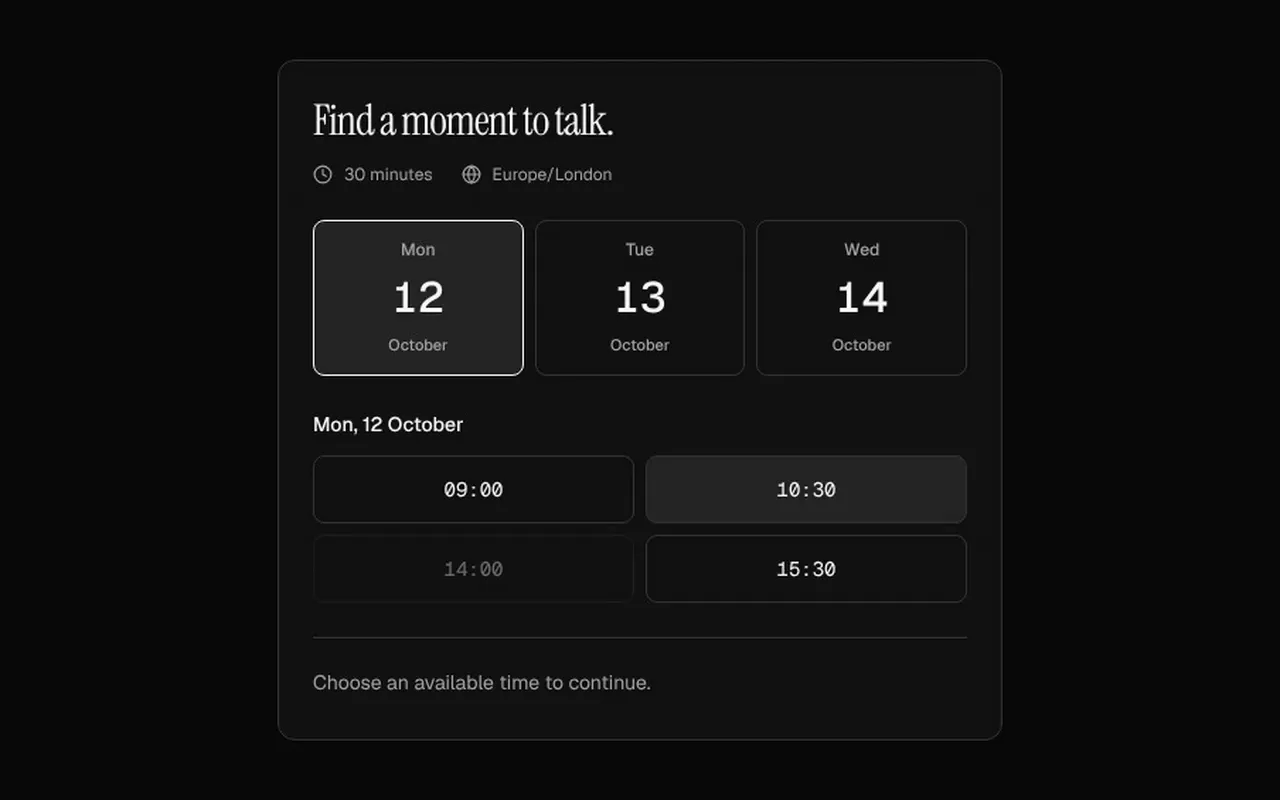
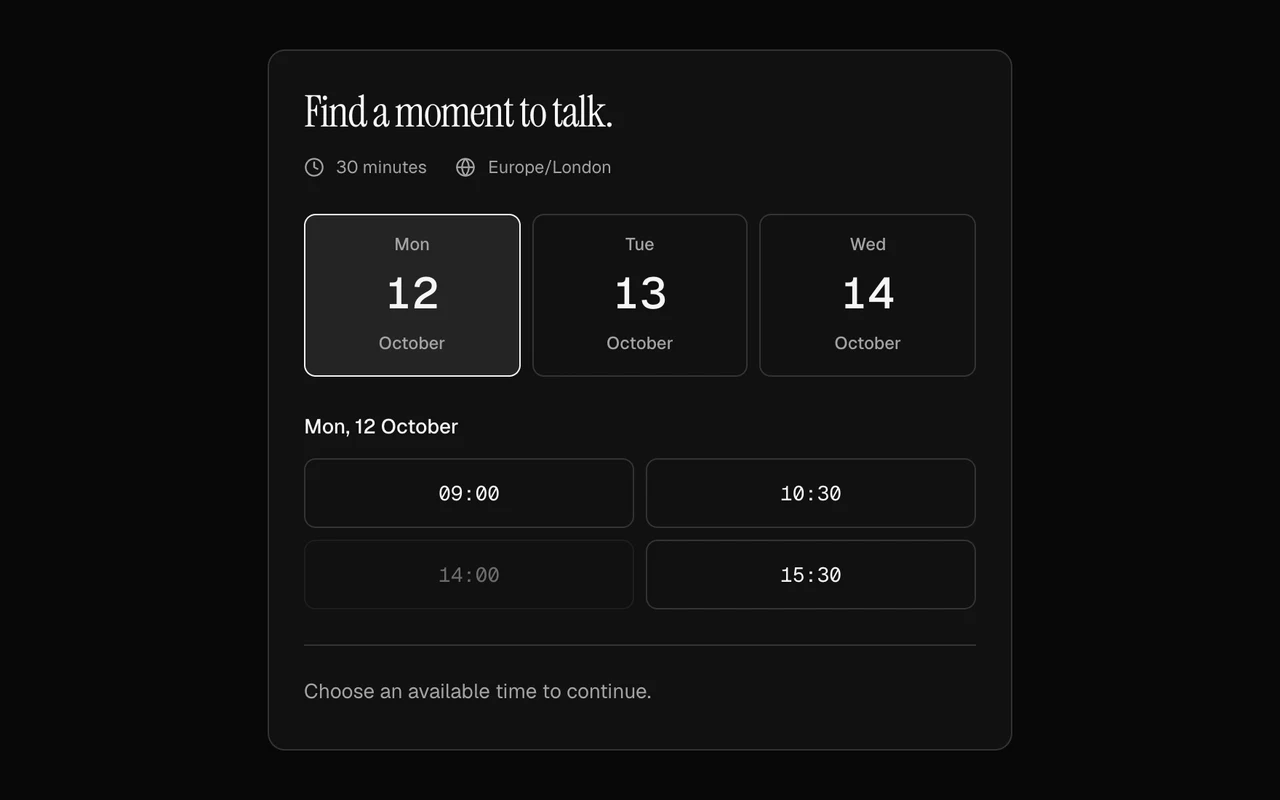
fix: protect booking selection; defer rejected film

diff --git a/registry/free/date-booking-slots/date-booking-slots.tsx b/registry/free/date-booking-slots/date-booking-slots.tsx
@@ -1,7 +1,14 @@
 "use client";
-import { type CSSProperties, useId, useState } from "react";
+import {
+  type CSSProperties,
+  type ReactNode,
+  useId,
+  useLayoutEffect,
+  useState,
+  useSyncExternalStore,
+} from "react";
 import { Clock, Globe, Check } from "lucide-react";
-import { motion, useReducedMotion } from "motion/react";
+import { motion, useAnimationControls } from "motion/react";
 
 const control =
   "inline-flex min-h-11 min-w-11 items-center justify-center gap-2 rounded-lg px-3 text-sm font-medium transition-[background,transform] duration-150 hover:bg-[var(--wash)] disabled:hover:bg-transparent active:scale-[.97] focus-visible:outline-2 focus-visible:outline-offset-2 focus-visible:outline-[var(--ink)] disabled:cursor-not-allowed disabled:opacity-40 disabled:active:scale-100 motion-reduce:transform-none";
@@ -60,6 +67,38 @@ const defaults: BookingDay[] = [
   },
   { id: "2026-10-14", weekday: "Wed", day: "14", month: "October", slots: [] },
 ];
+const motionQuery = "(prefers-reduced-motion: reduce)";
+function subscribeToMotion(change: () => void) {
+  const query = window.matchMedia(motionQuery);
+  query.addEventListener("change", change);
+  return () => query.removeEventListener("change", change);
+}
+
+function useEntry(reduced: boolean, duration: number) {
+  const controls = useAnimationControls();
+  useLayoutEffect(() => {
+    controls.stop();
+    const target = { opacity: 1, y: 0 };
+    if (reduced) controls.set(target);
+    else void controls.start({ ...target, transition: { duration } });
+    return () => controls.stop();
+  }, [controls, duration, reduced]);
+  return controls;
+}
+
+function SlotChoices({ reduced, children }: { reduced: boolean; children: ReactNode }) {
+  const entrance = useEntry(reduced, 0.24);
+  return (
+    <motion.div
+      initial={{ opacity: 0, y: reduced ? 0 : 4 }}
+      animate={entrance}
+      className="grid grid-cols-2 gap-2"
+    >
+      {children}
+    </motion.div>
+  );
+}
+
 export function BookingSlots({
   title = "Find a moment to talk.",
   duration = "30 minutes",
@@ -70,7 +109,13 @@ export function BookingSlots({
   theme = "dark",
 }: BookingSlotsProps) {
   const id = useId();
-  const reduced = useReducedMotion();
+  const reduced = useSyncExternalStore(
+    subscribeToMotion,
+    () => window.matchMedia(motionQuery).matches,
+    () => false,
+  );
+  const entrance = useEntry(reduced, 0.32);
+  const readOnly = value !== undefined && !onChange;
   const [dayId, setDayId] = useState(days[0]?.id ?? "");
   const [local, setLocal] = useState<BookingSelection | null>(null);
   const selected = value === undefined ? local : value;
@@ -80,7 +125,9 @@ export function BookingSlots({
     (s) => s.id === selected?.slotId && s.available !== false,
   );
   return (
-    <section
+    <motion.section
+      initial={{ opacity: 0, y: reduced ? 0 : 8 }}
+      animate={entrance}
       style={colors(theme)}
       aria-labelledby={id}
       className="@container w-full max-w-lg rounded-xl border border-[var(--line)] bg-[var(--panel)] p-6 text-[var(--ink)]"
@@ -90,11 +137,11 @@ export function BookingSlots({
       </h2>
       <div className={`mt-3 flex flex-wrap gap-x-5 gap-y-2 text-xs ${muted}`}>
         <span className="inline-flex items-center gap-2">
-          <Clock size={14} aria-hidden="true" />
+          <Clock size={14} className="shrink-0" aria-hidden="true" />
           {duration}
         </span>
         <span className="inline-flex items-center gap-2 break-all">
-          <Globe size={14} aria-hidden="true" />
+          <Globe size={14} className="shrink-0" aria-hidden="true" />
           {timezone}
         </span>
       </div>
@@ -107,14 +154,14 @@ export function BookingSlots({
           <button
             type="button"
             data-demo={`day-${i}`}
-            key={`${d.id}-${i}`}
+            key={d.id}
             aria-pressed={d.id === day?.id}
             onClick={() => setDayId(d.id)}
             className={`${control} min-w-16 flex-1 flex-col gap-1 border py-3 ${d.id === day?.id ? "border-[var(--ink)] bg-[var(--wash)]" : "border-[var(--line)]"}`}
           >
             <span className={`text-xs ${muted}`}>{d.weekday}</span>
             <span className="font-display text-3xl tabular-nums">{d.day}</span>
-            <span className={`text-[11px] ${muted}`}>{d.month}</span>
+            <span className={`text-[12px] ${muted}`}>{d.month}</span>
           </button>
         ))}
       </div>
@@ -124,17 +171,11 @@ export function BookingSlots({
             ? `${day.weekday}, ${day.day} ${day.month}`
             : "No dates available"}
         </legend>
-        <motion.div
-          key={day?.id}
-          initial={{ opacity: 0, y: reduced ? 0 : 4 }}
-          animate={{ opacity: 1, y: 0 }}
-          transition={{ duration: reduced ? 0.1 : 0.24 }}
-          className="grid grid-cols-2 gap-2"
-        >
+        <SlotChoices key={day?.id} reduced={reduced}>
           {day?.slots.map((slot, i) => (
             <label
-              key={`${slot.id}-${i}`}
-              className={`relative flex min-h-12 cursor-pointer items-center justify-center rounded-lg border font-mono text-sm transition-[background-color,border-color,transform] duration-150 ease-[cubic-bezier(0.22,1,0.36,1)] ${slot.available === false ? "cursor-not-allowed opacity-40" : "hover:bg-[var(--wash)] disabled:hover:bg-transparent active:scale-[.98] motion-reduce:transform-none"} ${selected?.dayId === day.id && selectedSlot?.id === slot.id ? "border-[var(--ink)]" : "border-[var(--line)]"}`}
+              key={slot.id}
+              className={`relative flex min-h-12 items-center justify-center rounded-lg border px-3 py-2 font-mono text-sm transition-[background-color,border-color,transform] duration-150 ease-[cubic-bezier(0.22,1,0.36,1)] ${slot.available === false ? "cursor-not-allowed opacity-40" : readOnly ? "cursor-default" : "cursor-pointer hover:bg-[var(--wash)] active:scale-[.98] motion-reduce:transform-none"} ${selected?.dayId === day.id && selectedSlot?.id === slot.id ? "border-[var(--ink)]" : "border-[var(--line)]"}`}
             >
               <input
                 type="radio"
@@ -144,11 +185,12 @@ export function BookingSlots({
                 checked={
                   selected?.dayId === day.id && selectedSlot?.id === slot.id
                 }
-                disabled={slot.available === false}
+                disabled={slot.available === false || readOnly}
                 onChange={() => {
+                  if (readOnly) return;
                   const next = { dayId: day.id, slotId: slot.id };
                   setLocal(next);
-                  onChange?.(next);
+                  onChange?.({ ...next });
                 }}
               />
               <span className="absolute inset-[-3px] rounded-lg peer-focus-visible:outline-2 peer-focus-visible:outline-[var(--ink)]" />
@@ -158,8 +200,8 @@ export function BookingSlots({
               )}
             </label>
           ))}
-        </motion.div>
-        {!day?.slots.length && (
+        </SlotChoices>
+        {!day?.slots.some((slot) => slot.available !== false) && (
           <p className={`py-6 text-sm ${muted}`}>
             No times are available for this day.
           </p>
@@ -176,10 +218,12 @@ export function BookingSlots({
             selected
           </>
         ) : (
-          "Choose an available time to continue."
+          day?.slots.some((slot) => slot.available !== false)
+            ? "Choose an available time to continue."
+            : "No available time selected."
         )}
       </p>
-    </section>
+    </motion.section>
   );
 }
 

diff --git a/docs/review/STATUS.md b/docs/review/STATUS.md
@@ -1,6 +1,6 @@
 # Review status
 
-187 components are rebuilt (or, for a few, polished), verified and committed. For each: whether its demo video
+188 components are rebuilt (or, for a few, polished), verified and committed. For each: whether its demo video
 needs re-recording, whether its poster is current, and the state of its browser regression probe.
 
 - **Video**: `new` means `public/previews/<slug>.mp4` still shows the old version. Re-record serially on a quiet machine:
@@ -30,7 +30,7 @@ Its reviewed four-second film and paired poster pass every recording guard. Shar
 Kanban, File Explorer, Communication Preferences and Weekly Agenda also have current reviewed films and paired
 posters. The complete 63-suite / 82-replay interface checkpoint is verified.
 
-Remaining queues: **11 components, 12 blocks, 59 dedicated probes and 116 films**.
+Remaining queues: **10 components, 12 blocks, 59 dedicated probes and 117 films**.
 
 ## Previous input checkpoint (19 October 2026)
 
@@ -309,7 +309,7 @@ See [the handoff checkpoint](HANDOFF_TASKS.md#8-final-release-checks) for revisi
 
 ## Cross-cutting browser checks
 
-- The interface checkpoint passes all 63 suites and all 82 exact metadata replays in one complete run, with source hashes, heads and standing changes fixed throughout. Setup Checklist then passes focused checks and its 83rd replay; the next 64-suite / 83-replay batch remains pending.
+- The interface checkpoint passes all 63 suites and all 82 exact metadata replays in one complete run, with source hashes, heads and standing changes fixed throughout. Setup Checklist and Booking Slots then pass focused checks and their added replays; the next 64-suite / 84-replay batch remains pending.
 - Bento now waits for its complete entrance before checking zero mutations and exact historical data. All four theme/motion/ambient cases pass; an injected loop is rejected.
 - Audit Trail's first-frame popup state and keyboard/pointer dismissal are fixed. Its workflow, metadata replay and both-theme open-menu accessibility pass; the blocked-End control is rejected.
 - The complete scroll suite passes with exact reversal, first-frame chapter release, playable WebM, offscreen pause and broken-film recovery.
@@ -343,3 +343,4 @@ See [the handoff checkpoint](HANDOFF_TASKS.md#8-final-release-checks) for revisi
 | `forms-preference-center` | current | current | Independent normalized callback snapshots, read-only controlled choices, disabled empty/unconfigured saves, immediate pending locks, serial writes, retired stale feedback, option-key focus and live reduced motion pass. Seven original failures are retained. Its 41-mount source review, eighteen accessibility audits, six widths, state/entrance captures, Next regression, theme control, official audit and exact select/save replay pass. Strict registry, root/isolated types and all 1,066 tests pass. Its reviewed 4.0s film and paired poster contain every state in the measured initial union, with every recording guard retained. The forms/dates suite is registered and passes in the complete 63-suite / 82-replay checkpoint. |
 | `date-week-agenda` | current | current | Independent event snapshots, stable day/event-key focus, live reduced motion and 12px time metadata pass. Four original failures are retained. Its 31-mount source review, eighteen accessibility audits, six widths, state/entrance captures, Next regression, theme control, official audit and exact Monday-notes/Tuesday replay pass. Empty/arriving schedules, missing-day fallback, host display labels, replaced days, long copy and independent agendas are covered. Strict registry, root/isolated types and all 1,066 tests pass. Its reviewed 4.0s film and paired poster keep all states visible with every recording guard retained. Included in the complete 63-suite / 82-replay checkpoint. |
 | `onboarding-setup-checklist` | new | current | Independent normalized completion arrays, read-only controlled completion, stable task-key focus, live ring/card motion, checkbox contrast and singular remaining-step copy pass. Six original failures are retained. Its 37-mount source review, eighteen accessibility audits, six widths, state/entrance captures, Next regression, theme control, official audit and exact completion/disclosure replay pass. Refused controlled proposals, empty/arriving tasks, long copy and independent checklists are covered. Strict registry, root/isolated types and all 1,066 tests pass. Its settled Next poster is reviewed and current. The film is rejected for a 998.88ms changed-source delivery gap; the old film is retained and the rejected raw capture/metrics remain local with every guard unchanged. The onboarding runner is registered; the next 64-suite / 83-replay batch remains pending. |
+| `date-booking-slots` | new | current | Booking Slots copies selection notifications, makes controlled radios read-only without a writer, retains day/slot focus through reordering and settles card/list motion on live reduced-motion changes. Fully unavailable days have a written no-times state and neutral feedback. Month labels use 12px type and long time labels have inner padding. Six original-source failures are retained. Its 37-mount source review, eighteen accessibility audits, six widths, reviewed state/entrance captures, Next regression, theme control, official audit and exact four-state replay pass. Native radio navigation, controlled acceptance/refusal, cleared and unavailable selections, day browsing with retained choices, arriving schedules, host display labels and independent instances are covered. Strict registry, root/isolated types and all 1,066 tests pass. Its settled Next poster is reviewed and current. The film fails its original timing guards (source gap 12ms, delivery 46.99ms and moving-frame p95 53.55ms); the rejected raw capture/metrics remain local, the previous film is retained and every guard stays unchanged. The next 64-suite / 84-replay batch remains pending. |

diff --git a/docs/review/HANDOFF_TASKS.md b/docs/review/HANDOFF_TASKS.md
@@ -374,7 +374,9 @@ and how to know it's done. Pick any of them up independently. Background, briefs
 
 - Task 7 (19 October): Workspace Setup Checklist keeps separate completion and instruction controls. Notifications receive copied available-ID arrays, controlled completion without a writer is read-only, task-key reordering retains focus and live reduced motion settles the ring/card. Unchecked boundaries meet 3:1; durations use 12px type; the ring draws from empty; chevrons show open state; remaining-step copy handles one; and the subtitle no longer hard-codes three tasks. Six original-source failures are retained. Its 37-mount source review, eighteen accessibility audits, six widths, reviewed state/entrance captures, Next regression, theme control, official audit and exact completion/disclosure replay pass. Refused controlled changes, normalized IDs, empty/arriving tasks, long copy and independent instances are covered. Strict registry, root/isolated types and all 1,066 tests pass. Its settled Next poster is reviewed and current. The film is rejected for a 998.88ms changed-source delivery gap (13 stalls); source cadence is 17ms and moving-frame p95 is 25.37ms without stalls. The rejected raw capture/metrics are preserved, the prior film is retained and every guard stays unchanged. The onboarding runner is registered; the next complete batch has 64 suites and 83 metadata replays and remains pending. 11 components and 12 blocks remain; 116 films remain queued.
 
-## 1. Re-record demo videos (116 components)
+- Task 7 (19 October): Booking Slots copies selection notifications, makes controlled radios read-only without a writer, retains day/slot focus through reordering and settles card/list motion on live reduced-motion changes. Fully unavailable days have a written no-times state and neutral feedback. Month labels use 12px type and long time labels have inner padding. Six original-source failures are retained. Its 37-mount source review, eighteen accessibility audits, six widths, reviewed state/entrance captures, Next regression, theme control, official audit and exact four-state replay pass. Native radio navigation, controlled acceptance/refusal, cleared and unavailable selections, day browsing with retained choices, arriving schedules, host display labels and independent instances are covered. Strict registry, root/isolated types and all 1,066 tests pass. Its settled Next poster is reviewed and current. The film fails its original timing guards (source gap 12ms, delivery 46.99ms and moving-frame p95 53.55ms); the rejected raw capture/metrics remain local, the previous film is retained and every guard stays unchanged. The next complete batch has 64 suites and 84 metadata replays and remains pending. 10 components and 12 blocks remain; 117 films remain queued.
+
+## 1. Re-record demo videos (117 components)
 
 Every rebuilt component's poster is current but its catalogue film (`public/previews/<slug>.mp4`) still shows the old
 version. Record them one at a time on an otherwise idle machine; the recorder rejects frame stalls under load.
@@ -393,6 +395,7 @@ slug or per small group). Notes:
 
 Slugs:
 
+`date-booking-slots`
 `onboarding-setup-checklist`
 `devtools-request-waterfall`
 `chart-bullet-targets`
@@ -525,9 +528,9 @@ All nine parked rebuilds are shipped in both repos. Their original `_wip/<slug>`
 | finance-budget-variance | Completed 17 October: Next probe, dark/light accessibility, responsive and entrance/state captures, live demo and refreshed poster pass. |
 | finance-cashflow-dashboard | Completed 17 October: weekly balance and in/out bars, movable payments, independent pending saves, invalid-data guards, selected-week list geometry, Next probe/demo, both-theme accessibility, responsive/state/entrance captures and refreshed poster pass. |
 
-## 7. Continue the review (11 components, then 12 blocks)
+## 7. Continue the review (10 components, then 12 blocks)
 
-Same process as the 187 already done: hold each to the first ~100 components' standard. Briefs:
+Same process as the 188 already done: hold each to the first ~100 components' standard. Briefs:
 `docs/review/REVIEW_BRIEF.md`, `docs/review/SUITE_BRIEF.md` for industry components, suite languages in
 `docs/review/suites/`. Work newest first, about four components per batch, and verify each (build, tsc, tests,
 check-component, your own captures of states and mid-entrance frames, a refreshed poster, a rewritten pro-50 probe for
@@ -535,7 +538,7 @@ industry components).
 
 - **Commerce** is reviewed. Keep `block-commerce-workspace` compatible with its rebuilt parts.
 - **Smaller components** (#151–179):
-  date-booking-slots, input-file-dropzone, input-shortcut-recorder,
+  input-file-dropzone, input-shortcut-recorder,
   feedback-empty-search, navigation-pagination-window, primitives-shortcut-reference, selects-radio-cards,
   progress-milestones, content-accordion-index, feedback-inline-alert, navigation-breadcrumb-fold.
 - **Blocks**, after their parts: the 12 `block-*` components. Many parts changed their look and some their props;

diff --git a/registry/free/date-booking-slots/prompt.md b/registry/free/date-booking-slots/prompt.md
@@ -1,27 +1,33 @@
-# Booking Slot Selector
+# Booking Slots
 
-Build a standalone React 19 and Tailwind v4 component. A compact booking selector with date cards, available time slots and explicit timezone context, using native radios for reliable keyboard selection.
+Build a standalone React 19, Tailwind v4 and motion/react booking-time chooser with the existing named export, typed API and overridable default demo.
 
-## Layout
+## Layout and type
 
-Three narrow date cards above a two-column slot grid, with 30px day figures and mono times. The bottom rule confirms the current selection without claiming a booking. Size to the container. Use a 4/8px rhythm, 1px surface edges, 16px narrow padding and 24px desktop padding. Controls have 44px targets.
+Keep a focused time chooser: a 30px Instrument Serif heading, compact duration/timezone metadata, a row of date cards with 30px day numerals and 12px month labels, then native time radios in a two-column grid, with 12px horizontal and 8px vertical cell insets so long labels clear the border. Preserve neutral surfaces, restrained rules, a clear selected border and the quiet selected-time footer. Use at least 44px controls and non-shrinking clock/globe icons.
 
-## Typography and colour
+## Interaction
 
-Use font-sans at 14-16px/1.5, font-mono metadata at 11-12px and a 24-36px heading with -0.035em tracking. Dark uses #111111, #f5f5f5, #a3a3a3 and #333333; light uses #ffffff, #171717, #525252 and #d4d4d4. Maintain AA contrast.
+Keep BookingDay, BookingSelection and BookingSlotsProps. Use stable day IDs and slot IDs within each day as React keys so reordering retains focused date/radio controls.
+
+Use undefined value for a local choice, or value with onChange for host control. Controlled radios without a writer are disabled; day browsing remains available. onChange receives an independent dayId/slotId record synchronously, without exposing the stored local object.
+
+Browsing a day is separate from selecting a time. Changing day retains the prior valid selection and its actual day/time receipt until a different available time is chosen. Missing days fall back to the first available day.
+
+Keep native radio-group arrow navigation, Space activation and visible focus. Skip unavailable radios. Refused controlled proposals must not appear selected; null clears the selection.
+
+Only selections that still match a known, available slot render as selected. Empty and fully unavailable days show the same written no-times message; without a valid selection, unavailable views use neutral feedback instead of asking for an impossible choice.
+
+Duration, timezone, weekday, day, month and slot labels are host display strings. Render them without parsing, conversion, automatic sorting or a reservation claim. The host owns booking validation and persistence.
+
+Accept empty/arriving schedules, long labels and independent instances with separate radio names and IDs. Wrap content without document overflow.
 
 ## Motion
 
-Use a 320ms opacity/8px entrance, 150ms press response and 240ms state changes, easing cubic-bezier(0.22,1,0.36,1). No ambient loops. Reduced motion removes transforms and layout animation and limits fades to 120ms.
+Enter the whole chooser with opacity and an 8px rise over 320ms. Each keyed day slot grid enters with opacity and a 4px rise over 240ms. Keep the existing 150ms hover/press/focus treatment for available choices. Subscribe to live prefers-reduced-motion changes and stop and settle owned card/grid controls immediately. Remove press transforms for reduced motion.
 
-## Behaviour and accessibility
+## Integration
 
-Use semantic elements, native keyboard behaviour, visible focus rings and instance-scoped IDs. Expose typed content and callbacks. Handle empty custom data and repeated instances. Announce important feedback politely. Match the source state ownership and callback contract.
+Supply ordered days and slots with stable IDs. All date/time/timezone fields are display labels; resolve scheduling, availability and timezone rules in the host. onChange receives a copied record synchronously. Use value with onChange for controlled acknowledgement; selection does not reserve a slot.
 
-## Responsive
-
-Design for 320, 390, 768, 1024, 1440 and 1920px. Respond to the container with @container variants, wrap text and stack secondary details. Scroll only within explicitly labelled local regions.
-
-## Avoid
-
-No remote imagery, false success states, unlabelled controls, hover-only actions, low contrast or decorative status pills. The demo is an isolated component on a quiet stage.
+Use the source dark/light palettes, visible focus and 320/390/768/1024/1440/1920px container layouts.
